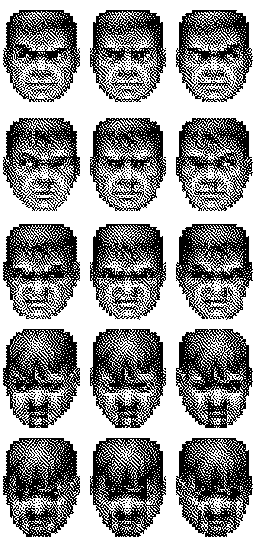
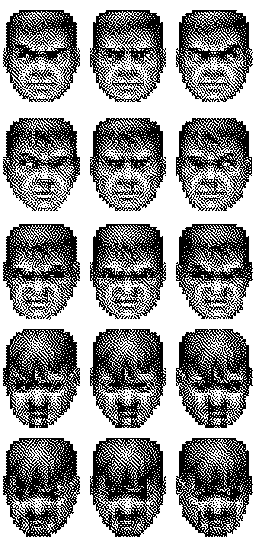
dropped transparancy support on aplite not enough memory

diff --git a/src/DoomMarine.c b/src/DoomMarine.c
@@ -21,11 +21,10 @@ Layer* marine_layer;
 Layer* time_layer;
 Layer* date_layer;
 
-GBitmap* marine_spritesheet_black;
-GBitmap* marine_spritesheet_white;
+GBitmap* marine_spritesheet;
 
-GBitmap* marine_charging_black;
-GBitmap* marine_charging_white;
+GBitmap* marine_charging;
+
 GFont custom_font_24;
 
 AppTimer* marine_animation_timer;
@@ -54,7 +53,7 @@ GBitmap* get_sprite_by_index(GBitmap* spritesheet, int x, int y) {
     return NULL;
   }
   
-  GRect sub_rect = GRect((SINGLE_SPRITE_W * x) + (9 * x), (SINGLE_SPRITE_H * y) + (7 * y) , SINGLE_SPRITE_W, SINGLE_SPRITE_H);
+  GRect sub_rect = GRect(3 + (SINGLE_SPRITE_W * x) + (9 * x), 10 + (SINGLE_SPRITE_H * y) + (7 * y) , SINGLE_SPRITE_W, SINGLE_SPRITE_H);
   GBitmap* sub_bitmap = gbitmap_create_as_sub_bitmap(spritesheet, sub_rect);
   
   return sub_bitmap;
@@ -72,8 +71,7 @@ void draw_marine_layer(Layer *layer, GContext *ctx) {
   next_y = next_y > MAX_SPRITE_Y ? MAX_SPRITE_Y : next_y; 
   
   bool destroy_new_sprite = false;
-  GBitmap* new_sprite_black = NULL;
-  GBitmap* new_sprite_white = NULL;
+  GBitmap* new_sprite = NULL;
   
   if (!anim_data.current_battery_state.is_charging && !anim_data.current_battery_state.is_plugged) {
       switch (anim_data.current_x) {
@@ -105,43 +103,33 @@ void draw_marine_layer(Layer *layer, GContext *ctx) {
      anim_data.previous_x = anim_data.current_x;
      anim_data.current_x = next_x;
      
-     new_sprite_black  = get_sprite_by_index(marine_spritesheet_black, next_x, next_y);
-     new_sprite_white  = get_sprite_by_index(marine_spritesheet_black, next_x, next_y);
+     new_sprite  = get_sprite_by_index(marine_spritesheet, next_x, next_y);
      
-     if (!new_sprite_black || !new_sprite_white) {
-      APP_LOG(APP_LOG_LEVEL_ERROR, "Error getting new sprite! x:%d y:%d", next_x, next_y);
-      return;
-     } 
+     if (!new_sprite) {
+       APP_LOG(APP_LOG_LEVEL_ERROR, "Error getting new sprite! x:%d y:%d", next_x, next_y);
+       return;
+     }
      
      destroy_new_sprite = true; 
   } else {
-    new_sprite_black = marine_charging_black;
-    new_sprite_white = marine_charging_black;
+    new_sprite = marine_charging;
   }
    
-  
 #ifdef PBL_PLATFORM_BASALT
-   GRect image_size_black = gbitmap_get_bounds(new_sprite_black);
-   GRect image_size_white = gbitmap_get_bounds(new_sprite_white);
+   GRect image_size = gbitmap_get_bounds(new_sprite);
 #else 
-   GRect image_size_black = new_sprite_black->bounds;
-   GRect image_size_white = new_sprite_white->bounds;
+   GRect image_size = new_sprite->bounds;
 #endif  
   
   GRect bounds = layer_get_bounds(layer);
   
-  grect_align(&image_size_black, &bounds, GAlignCenter, true);
-  grect_align(&image_size_white, &bounds, GAlignCenter, true);
+  grect_align(&image_size, &bounds, GAlignCenter, true);
 
-  graphics_context_set_compositing_mode(ctx, GCompOpOr);
-  graphics_draw_bitmap_in_rect(ctx, new_sprite_white, image_size_white);
-  
-  graphics_context_set_compositing_mode(ctx, GCompOpClear);
-  graphics_draw_bitmap_in_rect(ctx, new_sprite_black, image_size_black);
+  graphics_context_set_compositing_mode(ctx, GCompOpAssign);
+  graphics_draw_bitmap_in_rect(ctx, new_sprite, image_size);
   
   if (destroy_new_sprite) {
-    gbitmap_destroy(new_sprite_black);
-    gbitmap_destroy(new_sprite_white);
+    gbitmap_destroy(new_sprite);
   }
 }
 
@@ -264,11 +252,9 @@ void time_changed_handler(struct tm *tick_time, TimeUnits units_changed) {
 }
 
 void main_window_load(Window *window) {
-  marine_spritesheet_black = gbitmap_create_with_resource(RESOURCE_ID_DOOM_MARINE_SPRITES_BLACK);
-  marine_spritesheet_white = gbitmap_create_with_resource(RESOURCE_ID_DOOM_MARINE_SPRITES_WHITE);
+  marine_spritesheet = gbitmap_create_with_resource(RESOURCE_ID_DOOM_MARINE_SPRITES);
   
-  marine_charging_black = gbitmap_create_with_resource(RESOURCE_ID_DOOM_MARINE_SPRITE_CHARGING_BLACK);
-  marine_charging_white = gbitmap_create_with_resource(RESOURCE_ID_DOOM_MARINE_SPRITE_CHARGING_WHITE);
+  marine_charging = gbitmap_create_with_resource(RESOURCE_ID_DOOM_MARINE_SPRITE_CHARGING);
   
   marine_layer = layer_create(GRect(0, 0, 144, 168));
   layer_set_update_proc(marine_layer, draw_marine_layer);
@@ -294,10 +280,8 @@ void main_window_load(Window *window) {
 }
 
 void main_window_unload(Window *window) {
-  gbitmap_destroy(marine_spritesheet_black);
-  gbitmap_destroy(marine_spritesheet_white);
-  gbitmap_destroy(marine_charging_black);
-  gbitmap_destroy(marine_charging_white);
+  gbitmap_destroy(marine_spritesheet);
+  gbitmap_destroy(marine_charging);
   
   layer_destroy(marine_layer);
   layer_destroy(time_layer);
